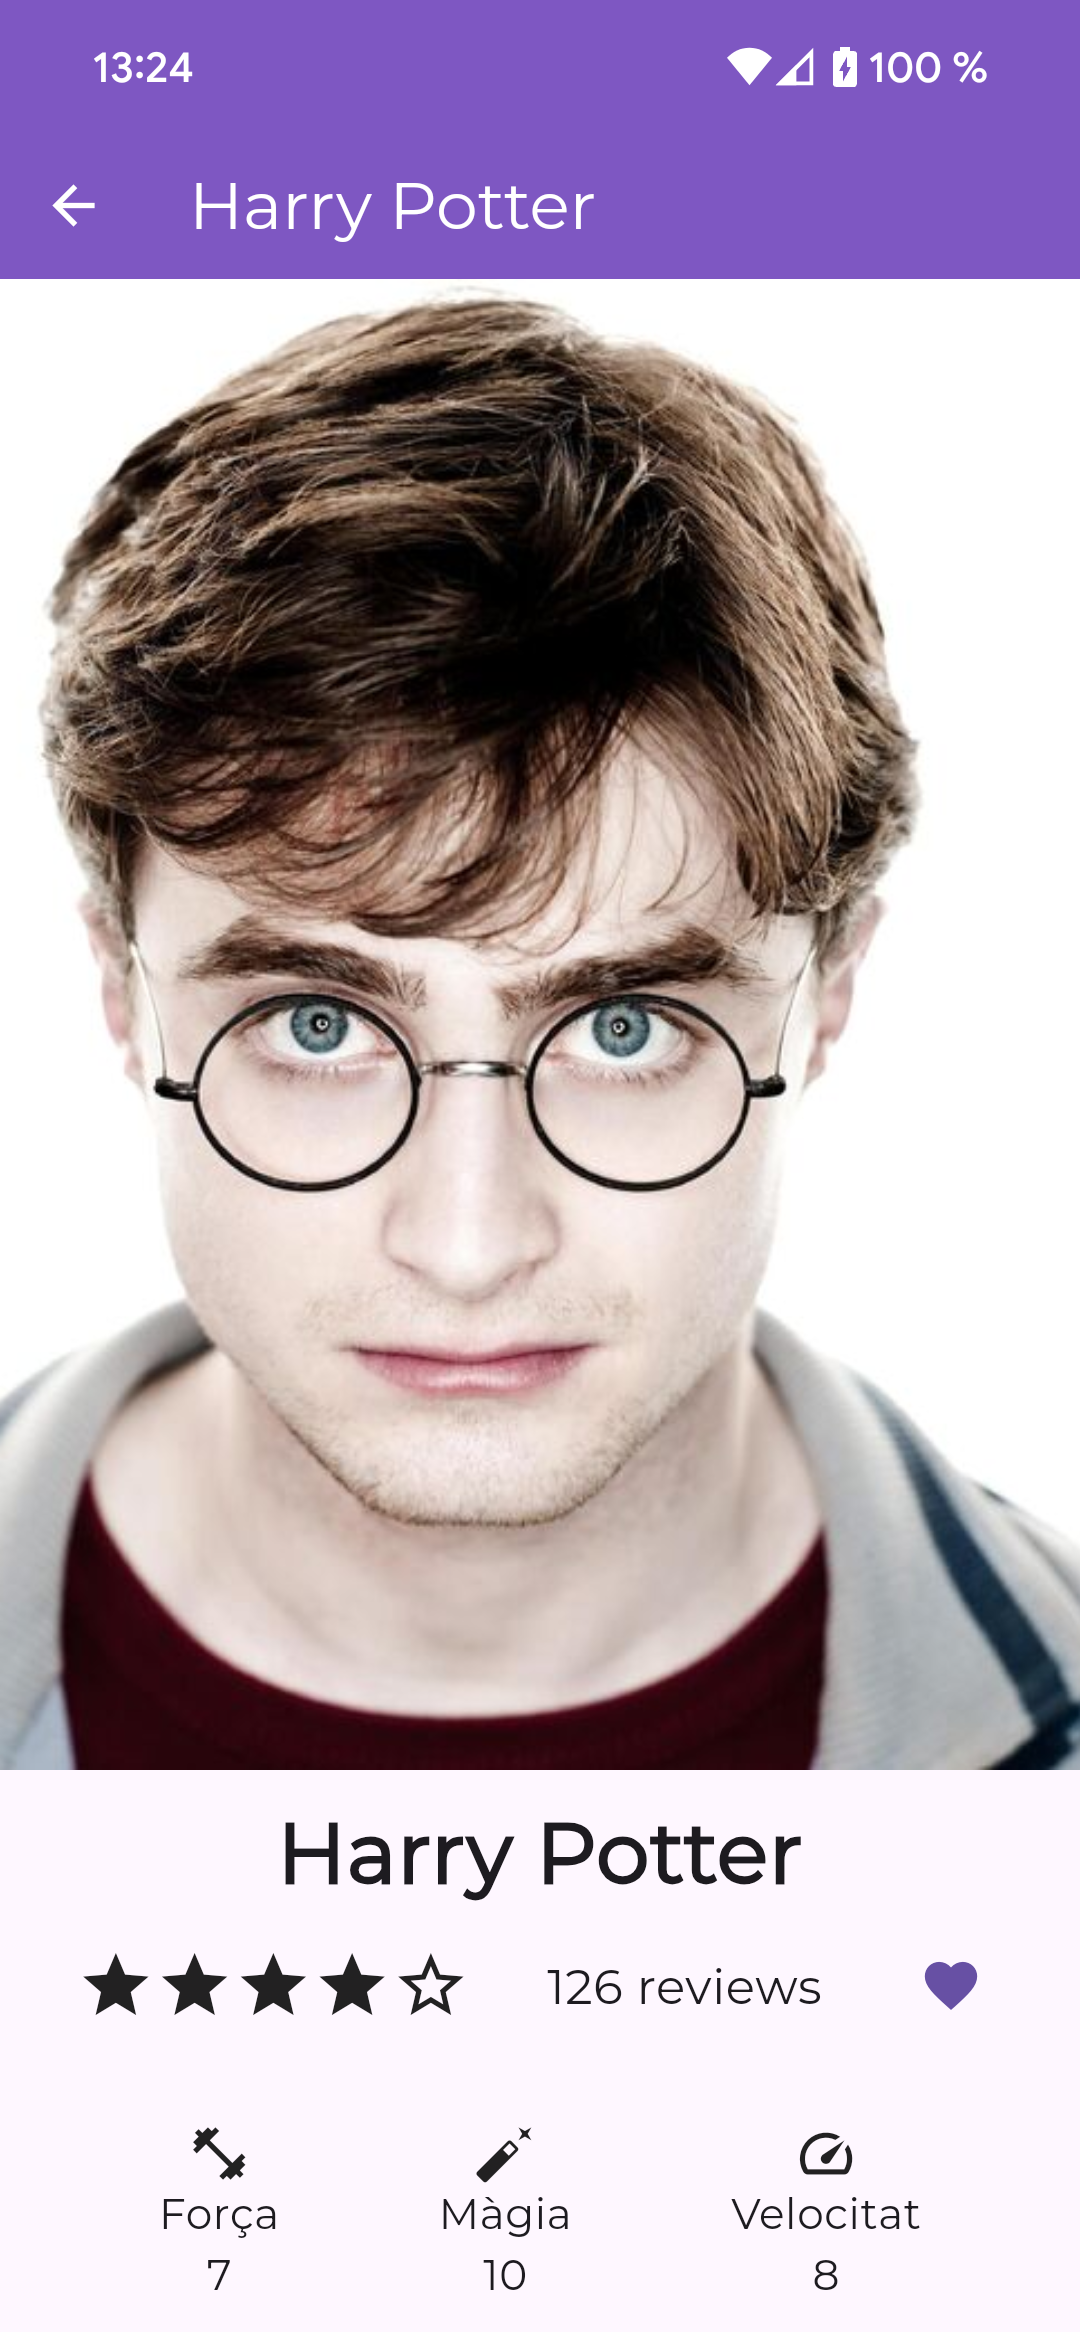
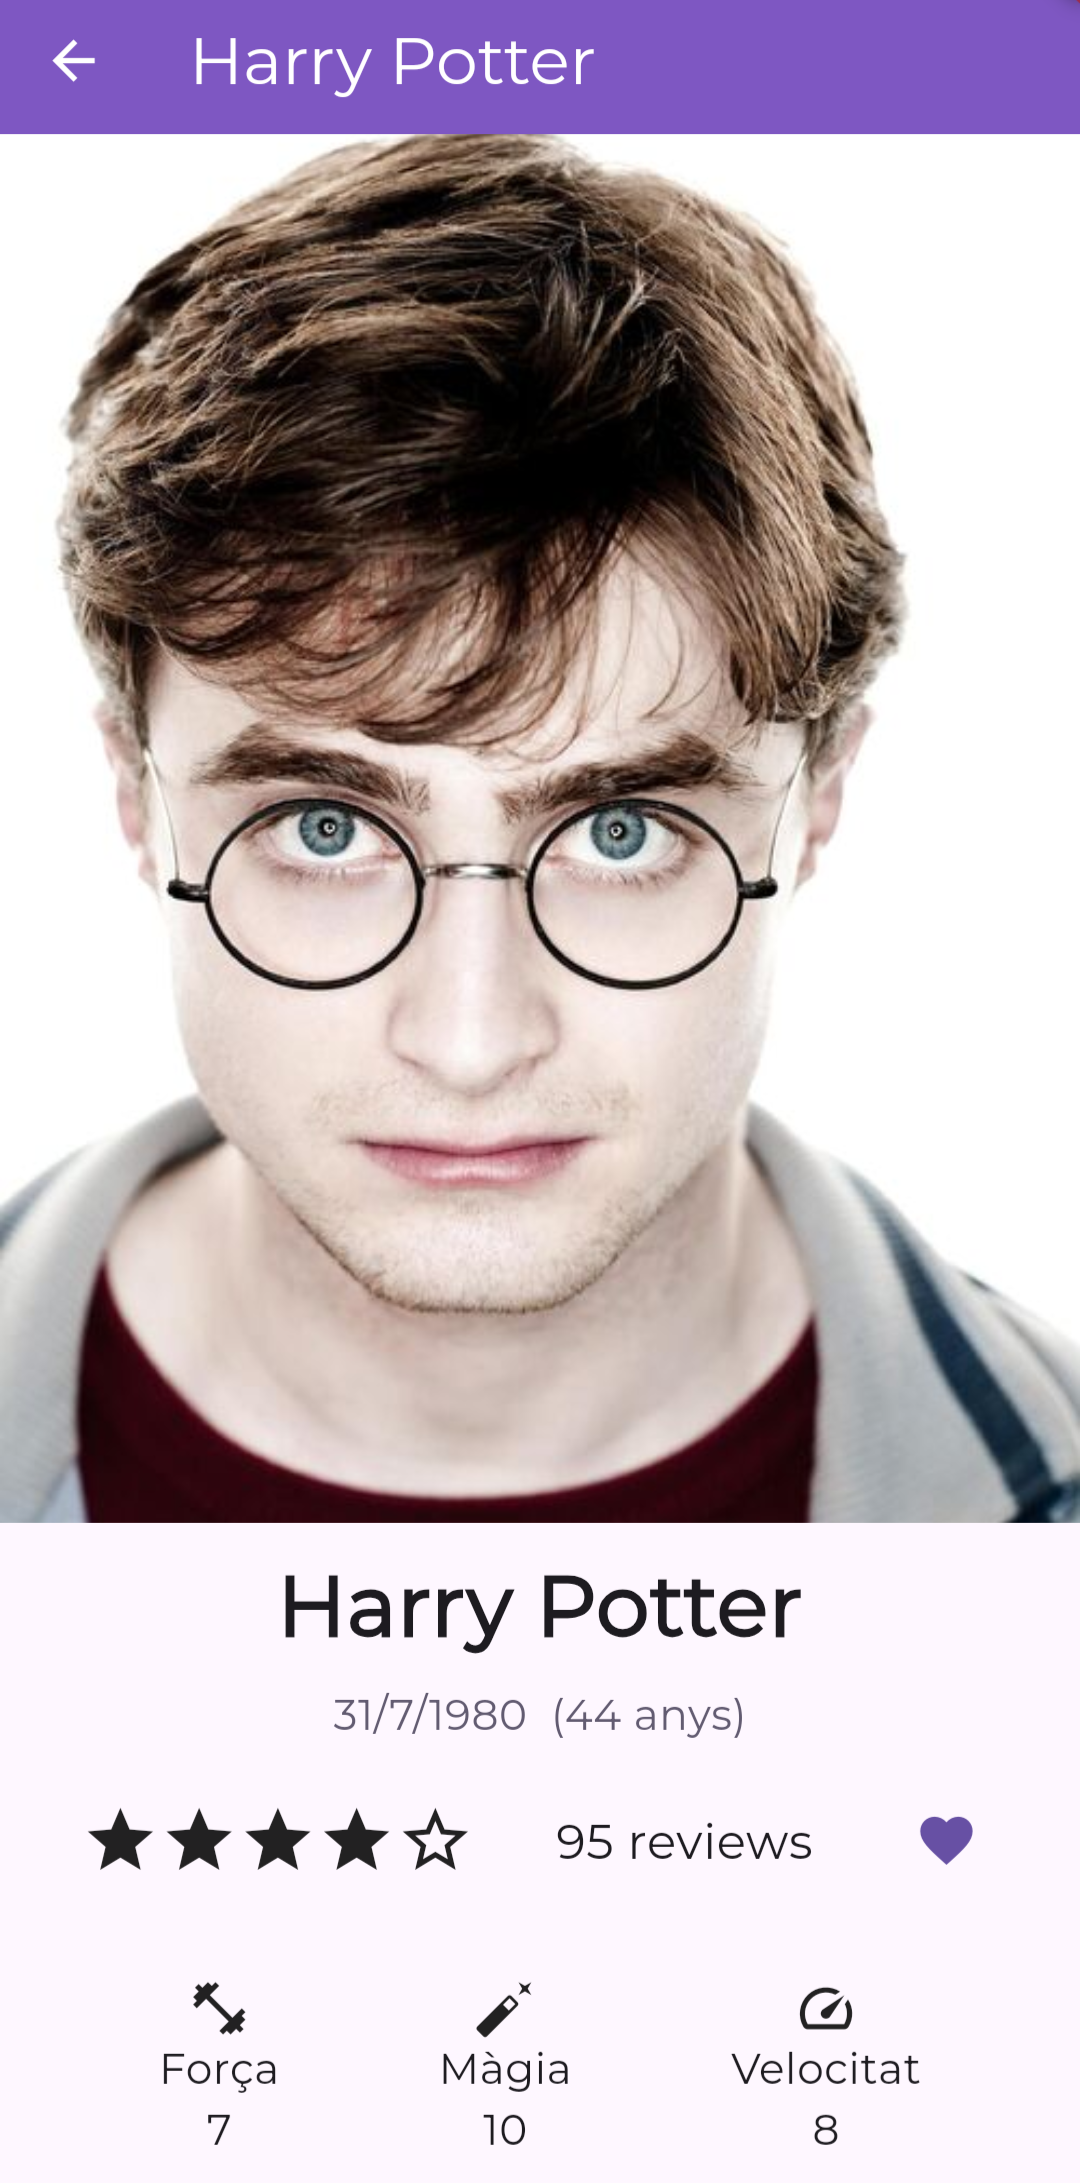
Add birth date + extensions

diff --git a/lib/screens/character_detail.dart b/lib/screens/character_detail.dart
@@ -3,6 +3,7 @@ import 'package:provider/provider.dart';
 
 import '../models/character.dart';
 import '../providers/hogwarts_data.dart';
+import '../utils/date_utils.dart';
 import '../widgets/favorite_character_icon.dart';
 import '../widgets/rating.dart';
 
@@ -25,7 +26,7 @@ class CharacterDetail extends StatelessWidget {
               tag: character.name,
               child: Image.network(
                 character.imageUrl,
-                fit: BoxFit.fitHeight,
+                fit: BoxFit.cover,
                 width: 500,
               ),
             ),
@@ -37,14 +38,24 @@ class CharacterDetail extends StatelessWidget {
               Column(
                 mainAxisSize: MainAxisSize.min,
                 children: [
+                  // Nom
                   Padding(
                     padding: const EdgeInsets.symmetric(vertical: 8),
-                    // Nom
                     child: Text(
                       character.name,
                       style: const TextStyle(
                         fontSize: 28,
                         fontWeight: FontWeight.bold,
+                      ),
+                    ),
+                  ),
+                  // Edat
+                  Padding(
+                    padding: const EdgeInsets.only(bottom: 16),
+                    child: Text(
+                      '${character.birthDate.formatDate()}  (${character.age} anys)',
+                      style: TextStyle(
+                        color: Theme.of(context).colorScheme.secondary,
                       ),
                     ),
                   ),

diff --git a/lib/models/character.dart b/lib/models/character.dart
@@ -1,6 +1,9 @@
+import '../utils/date_utils.dart';
+
 class Character {
   // Person information
   final String name;
+  final DateTime birthDate;
 
   // Attributes
   final int strength;
@@ -19,6 +22,7 @@ class Character {
 
   Character({
     required this.name,
+    required this.birthDate,
     required this.strength,
     required this.magicPower,
     required this.speed,
@@ -29,6 +33,7 @@ class Character {
 
   Character.withRating({
     required String name,
+    required DateTime birthDate,
     required int strength,
     required int magicPower,
     required int speed,
@@ -37,6 +42,7 @@ class Character {
     int reviews = 0,
   }) : this(
           name: name,
+          birthDate: birthDate,
           strength: strength,
           magicPower: magicPower,
           speed: speed,
@@ -44,6 +50,8 @@ class Character {
           reviews: reviews,
           totalRatings: reviews * rating,
         );
+
+  int get age => DateTime.now().difference(birthDate).inYears;
 
   void addReview(int rating) {
     reviews++;

diff --git a/lib/utils/date_utils.dart b/lib/utils/date_utils.dart
@@ -1,0 +1,28 @@
+import 'package:flutter/material.dart';
+import 'package:intl/date_symbol_data_local.dart';
+import 'package:intl/intl.dart';
+
+extension DurationExtension on Duration {
+  /// Duració en anys
+  int get inYears => inDays ~/ 365.25;
+}
+
+extension DateFormatter on DateTime {
+  // https://pub.dev/documentation/intl/latest/intl/DateFormat-class.html
+  static final DateFormat _dateFormat = DateFormat.yMd();
+
+  /// Formateig de la data
+  ///
+  /// `yMd` localized format
+  ///
+  /// es: `d/M/yyyy`\
+  /// en: `M/d/yyyy`
+  String formatDate() => _dateFormat.format(this);
+
+  /// Inicialitza els formats de data i hora amb un locale determinat
+  static Future<void> init([String? locale]) async {
+    Intl.defaultLocale = locale;
+    debugPrint('Locale: $locale');
+    await initializeDateFormatting(locale);
+  }
+}

diff --git a/lib/providers/hogwarts_data.dart b/lib/providers/hogwarts_data.dart
@@ -11,6 +11,7 @@ class HogwartsData extends ChangeNotifier {
   final List<Character> characters = [
     Character.withRating(
       name: 'Harry Potter',
+      birthDate: DateTime(1980, 7, 31),
       strength: 7,
       magicPower: 10,
       speed: 8,
@@ -21,6 +22,7 @@ class HogwartsData extends ChangeNotifier {
     ),
     Character.withRating(
       name: 'Ron Weasley',
+      birthDate: DateTime(1980, 3, 1),
       strength: 8,
       magicPower: 8,
       speed: 6,
@@ -31,6 +33,7 @@ class HogwartsData extends ChangeNotifier {
     ),
     Character.withRating(
       name: 'Hermione Granger',
+      birthDate: DateTime(1979, 9, 19),
       strength: 6,
       magicPower: 9,
       speed: 7,

diff --git a/lib/main.dart b/lib/main.dart
@@ -1,11 +1,18 @@
+import 'dart:io';
+
 import 'package:flutter/material.dart';
 import 'package:google_fonts/google_fonts.dart';
 import 'package:provider/provider.dart';
 
 import 'providers/hogwarts_data.dart';
 import 'screens/character_list.dart';
+import 'utils/date_utils.dart';
 
-void main() {
+void main() async {
+  // Inicialitza la localització de dates
+  await DateFormatter.init(Platform.localeName);
+
+  // Carrega l'aplicació
   runApp(const HogwartsApp());
 }
 

diff --git a/README.md b/README.md
@@ -59,6 +59,7 @@ lib
 │   ├── character_detail.dart
 │   └── character_list.dart
 ├── utils
+│   ├── date_utils.dart
 │   └── random_utils.dart
 └── widgets
     ├── favorite_character_icon.dart
@@ -66,7 +67,17 @@ lib
     └── toggle_icon.dart
 ```
 
-L'inici de l'aplicació és a `main.dart`, a `models` hi ha la clase `Character` per definir atributs d'un personatge, a `screens` està el codi de les dues pantalles, a `widgets` hi ha els widgets propis que no corresponen a una pantalla determinada, a `providers` hi ha les dades i l'estat global que utilitza la llibreria [provider](https://pub.dev/packages/provider) i a `utils` hi ha una extensió de `Random` que s'utilitza per generar un número de reviews aleatòries per cada personatge definit a `screens/character_list.dart`.
+L'inici de l'aplicació és a `main.dart`.
+
+A `models` hi ha la clase `Character` per definir atributs d'un personatge.
+
+A `screens` està el codi de les dues pantalles, `CharacterList` i `CharacterDetail`.
+
+A `widgets` hi ha els widgets propis que no corresponen a una pantalla determinada com el rating de les estrelles `Rating` o l'icona de favorit `FavoriteCharacterIcon`,
+
+A `providers` hi ha `HogwartsData` amb les dades dels personatges i l'estat global de l'aplicació, utilitzant la llibreria [provider](https://pub.dev/packages/provider).
+
+Finalment, a `utils` hi ha una extensió `RandomUtils` que s'utilitza per generar un número de reviews aleatòries per cada personatge, i altres extensions a `date_utils.dart` com `DurationExtension` i `DateFormatter` per donar format a la data de naixement.
 
 ## Imatges
 
@@ -78,3 +89,4 @@ L'inici de l'aplicació és a `main.dart`, a `models` hi ha la clase `Character`
 
 - [google_fonts](https://pub.dev/packages/google_fonts)
 - [provider](https://pub.dev/packages/provider)
+- [intl](https://pub.dev/packages/intl)
